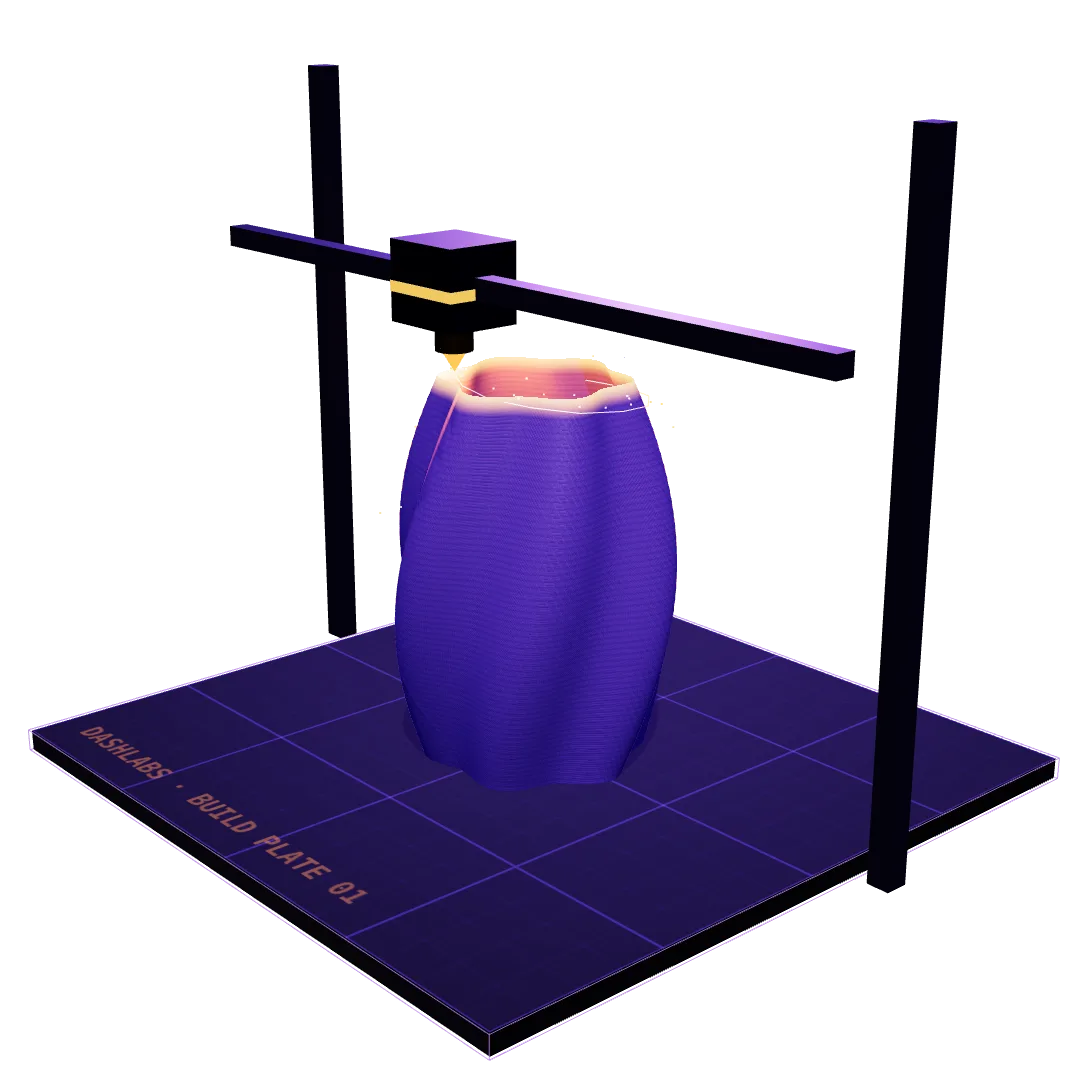
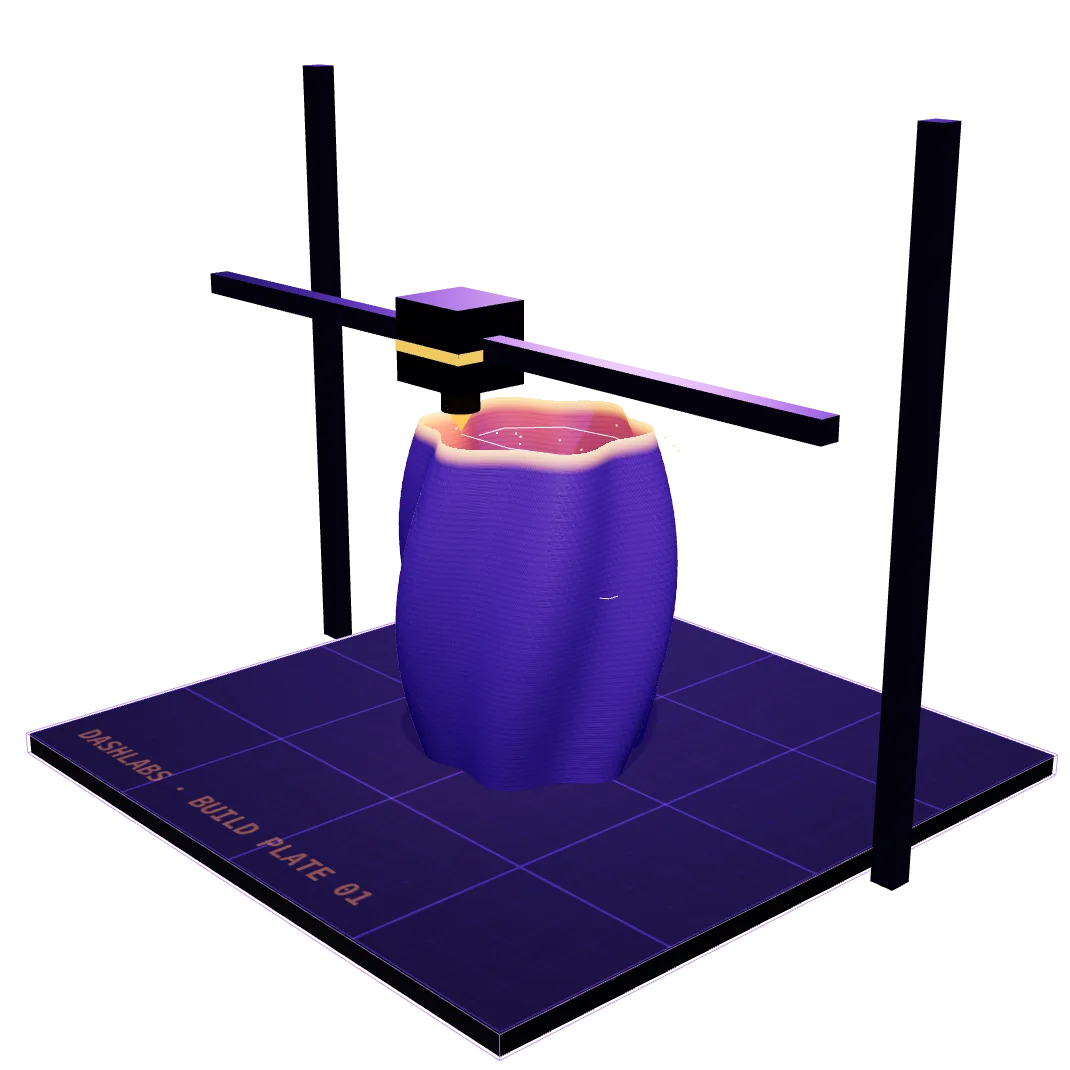
DashLabs: home-page 3D steps aside on devices that can't keep up
- The quality governor now measures the real time between frames (which
  includes the browser's drawing and compositing, not just our code), so
  it sees true slowness
- If even the lightest setting is too slow (or under ~8 fps), the hero
  printer stops after about 2 seconds and shows the still, with a
  'Play live 3D' button; picking a job also plays it. The readout
  matches the still.
- Measured (software rendering, no GPU): mobile Lighthouse 56 -> 66,
  blocking time 25 s -> 3.4 s, speed index 11 s -> 2.1 s; desktop 67 -> 75
- Thumbnail script presses play itself; poster regenerated

Claude-Session: https://claude.ai/code/session_017vvHhosEi4oRLQ3tyixHeU

diff --git a/dashlabs/src/lib/three/support.ts b/dashlabs/src/lib/three/support.ts
@@ -10,23 +10,42 @@ export function webglOK(): boolean {
 }
 
 /**
- * Adaptive quality for a render loop. Call `tick(ms)` with each frame's draw
- * time. On a device that can't keep up it steps down: first sharpness and
- * shadows, then half the frame rate. Returns whether to skip this frame.
+ * Adaptive quality for a render loop. Call `tick(ms)` on every animation frame
+ * with the time since the previous one: that interval includes everything the
+ * browser had to do (our JavaScript, drawing, compositing), so it shows the
+ * real cost. On a device that can't keep up it steps down: first sharpness and
+ * shadows, then half the frame rate, then it gives up so a still can be shown.
  */
 export function governor(renderer: { setPixelRatio(n: number): void; shadowMap: { enabled: boolean } }) {
-  let n = 0, sum = 0, level = 0, flip = false;
+  let n = 0, sum = 0, level = 0, flip = false, since = performance.now();
   return {
-    tick(ms: number) {
+    /**
+     * Returns 'give-up' when even the lightest setting is too slow for this
+     * device (still over 45 ms a frame): the caller should stop and show a still.
+     * Judged every 20 frames or every second, whichever comes first, so a very
+     * slow device is caught quickly. Pauses (hidden tab, scrolled away) are ignored.
+     */
+    tick(ms: number): 'give-up' | void {
+      if (ms > 1000) return; // a pause, not slowness
       sum += ms;
-      if (++n < 30) return;
+      n++;
+      if (n < 20 && performance.now() - since < 1000) return;
       const avg = sum / n;
       n = sum = 0;
+      since = performance.now();
+      // hopeless (under ~8 frames a second): stop straight away
+      if (avg > 120) return 'give-up';
       if (avg > 24 && level === 0) {
         level = 1;
         renderer.setPixelRatio(1);
         renderer.shadowMap.enabled = false;
       } else if (avg > 30 && level === 1) level = 2;
+      else if (avg > 45 && level === 2) return 'give-up';
+    },
+    /** Use only after the visitor asked for the live version: never give up again. */
+    stay() {
+      level = Math.max(level, 2);
+      this.tick = () => undefined;
     },
     /** true on frames to skip (level 2 draws every other frame) */
     skip() {

diff --git a/dashlabs/src/lib/three/hero.ts b/dashlabs/src/lib/three/hero.ts
@@ -55,7 +55,7 @@ function gridTexture() {
   return t;
 }
 
-export function mountHero(canvas: HTMLCanvasElement, onStatus?: (s: HeroStatus) => void) {
+export function mountHero(canvas: HTMLCanvasElement, onStatus?: (s: HeroStatus) => void, onGiveUp?: () => void) {
   const renderer = new THREE.WebGLRenderer({ canvas, antialias: true, alpha: true, powerPreference: 'high-performance' });
   // phones: fewer pixels and a smaller shadow map keep it smooth and cool
   const small = Math.min(innerWidth, innerHeight) < 700;
@@ -326,16 +326,23 @@ export function mountHero(canvas: HTMLCanvasElement, onStatus?: (s: HeroStatus) 
   new IntersectionObserver(([e]) => (visible = e.isIntersecting)).observe(canvas);
   const gov = governor(renderer);
   let owed = 0;
+  let stopped = false;
   const loop = (now: number) => {
-    const dt = Math.min(0.05, (now - last) / 1000);
+    if (stopped) return;
+    const gapMs = now - last;
+    const dt = Math.min(0.05, gapMs / 1000);
     last = now;
     if (visible && !document.hidden && !calm()) {
       owed += dt;
+      if (gov.tick(gapMs) === 'give-up' && onGiveUp) {
+        // this device can't keep up: stop drawing; the page shows the still instead
+        stopped = true;
+        onGiveUp();
+        return;
+      }
       if (!gov.skip()) {
-        const t0 = performance.now();
         frame(Math.min(0.1, owed));
         owed = 0;
-        gov.tick(performance.now() - t0);
       }
     }
     requestAnimationFrame(loop);
@@ -344,6 +351,14 @@ export function mountHero(canvas: HTMLCanvasElement, onStatus?: (s: HeroStatus) 
   requestAnimationFrame(loop);
 
   return {
+    /** Restart after a give-up, because the visitor asked for it. */
+    resume() {
+      if (!stopped) return;
+      stopped = false;
+      gov.stay();
+      last = performance.now();
+      requestAnimationFrame(loop);
+    },
     /** Eject the current part and print this one next. */
     printNow(i: number) {
       if (i === idx && phase !== 'ejecting') return;

diff --git a/dashlabs/src/lib/three/viewer.ts b/dashlabs/src/lib/three/viewer.ts
@@ -181,15 +181,15 @@ export function mountModel(canvas: HTMLCanvasElement, first: THREE.Object3D) {
   const gov = governor(renderer);
   let owed = 0;
   const loop = (now: number) => {
+    const prevNow = last;
     const dt = Math.min(0.05, (now - last) / 1000);
     last = now;
     if (visible && !document.hidden && (!calm() || dragging || printT >= 0 || faceTo !== null || Math.abs(vel) > 1e-4)) {
       owed += dt;
+      gov.tick(now - prevNow);
       if (dragging || !gov.skip()) {
-        const t0 = performance.now();
         draw(Math.min(0.1, owed));
         owed = 0;
-        gov.tick(performance.now() - t0);
       }
     }
     requestAnimationFrame(loop);
